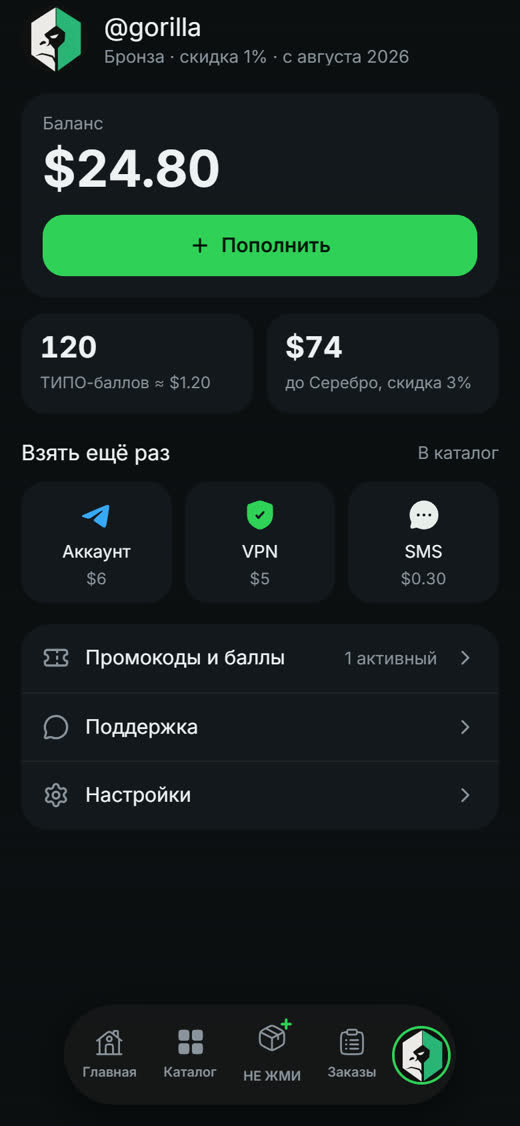
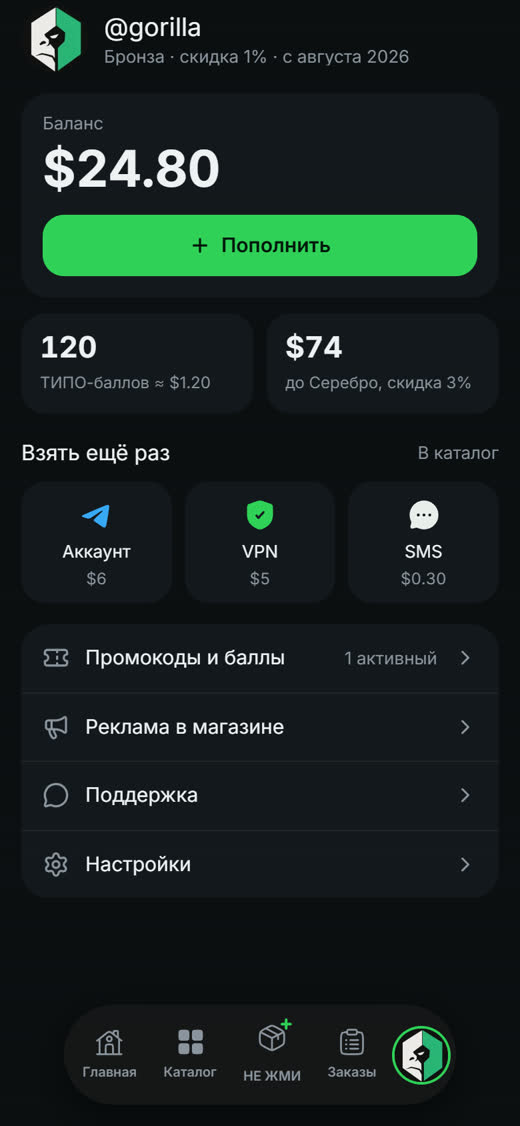
status: ads cabinet shipped

diff --git a/status/index.html b/status/index.html
@@ -95,27 +95,6 @@
     <div class="sec-hint">пока не выбрано, дальше не двигаемся</div>
 
     <div class="pick">
-      <div class="t">реклама: вариант 1</div>
-      <div class="d">шесть мест, календарь занятости, статистика показов</div>
-      <div class="shots">
-        <button type="button" data-src="img/ads-a-places.jpg"><img src="img/ads-a-places.jpg" alt="места"></button>
-        <button type="button" data-src="img/ads-a-builder.jpg"><img src="img/ads-a-builder.jpg" alt="конструктор"></button>
-        <button type="button" data-src="img/ads-a-stats.jpg"><img src="img/ads-a-stats.jpg" alt="статистика"></button>
-      </div>
-    </div>
-
-    <div class="pick">
-      <div class="t">реклама: вариант 2</div>
-      <div class="d">два формата, баннер и видео, оплата после ручной проверки</div>
-      <div class="shots">
-        <button type="button" data-src="img/ads-b-main.jpg"><img src="img/ads-b-main.jpg" alt="главный экран"></button>
-        <button type="button" data-src="img/ads-b-request.jpg"><img src="img/ads-b-request.jpg" alt="заявка"></button>
-        <button type="button" data-src="img/ads-b-preview.jpg"><img src="img/ads-b-preview.jpg" alt="превью"></button>
-        <button type="button" data-src="img/ads-b-admin.jpg"><img src="img/ads-b-admin.jpg" alt="админка"></button>
-      </div>
-    </div>
-
-    <div class="pick">
       <div class="t">опт: 50 аккаунтов, как выдавать</div>
       <div class="d">1 файлом · 2 списком с копированием · 3 пачками по 10 · 4 спросить формат при покупке</div>
       <div class="shots">
@@ -242,6 +221,44 @@
   </section>
 
   <section>
+    <h2 class="done"><i></i>готово <b>реклама</b></h2>
+    <div class="sec-hint">вход из профиля. оплата только после ручной проверки, метрики и выбор места на месте</div>
+    <ul>
+      <li>
+        <div class="t">выбор места</div>
+        <div class="d">на главной, в ленте видео, в каталоге, рассылка в боте. у каждого превью и цена</div>
+        <div class="shots">
+          <button type="button" data-src="img/ad-list.jpg"><img src="img/ad-list.jpg" alt="места"></button>
+        </div>
+      </li>
+      <li>
+        <div class="t">заявка</div>
+        <div class="d">срок 24 часа, 3 или 7 дней, проект, ссылка, материал, комментарий, стоимость</div>
+        <div class="shots">
+          <button type="button" data-src="img/ad-build.jpg"><img src="img/ad-build.jpg" alt="заявка"></button>
+          <button type="button" data-src="img/ad-preview.jpg"><img src="img/ad-preview.jpg" alt="превью"></button>
+        </div>
+      </li>
+      <li>
+        <div class="t">статусы заявки</div>
+        <div class="d">на проверке, одобрено с оплатой, запланировано, отклонено с причиной</div>
+        <div class="shots">
+          <button type="button" data-src="img/ad-sent.jpg"><img src="img/ad-sent.jpg" alt="отправлено"></button>
+          <button type="button" data-src="img/ad-approved.jpg"><img src="img/ad-approved.jpg" alt="одобрено"></button>
+          <button type="button" data-src="img/ad-declined.jpg"><img src="img/ad-declined.jpg" alt="отклонено"></button>
+        </div>
+      </li>
+      <li>
+        <div class="t">статистика показа</div>
+        <div class="d">показы, клики, досмотры ролика, пауза и отчёт</div>
+        <div class="shots">
+          <button type="button" data-src="img/ad-active.jpg"><img src="img/ad-active.jpg" alt="статистика"></button>
+        </div>
+      </li>
+    </ul>
+  </section>
+
+  <section>
     <h2 class="done"><i></i>готово <b>бот</b></h2>
     <ul>
       <li>
@@ -273,6 +290,9 @@
       <li>
         <div class="t">приём настоящих платежей</div>
         <div class="d">cryptobot и xrocket, счёт пока не выставляется</div>
+      </li>
+      <li>
+        <div class="t">склад и админка: загрузка аккаунтов, номеров, прокси, ключей</div>
       </li>
       <li>
         <div class="t">поиск по каталогу</div>
